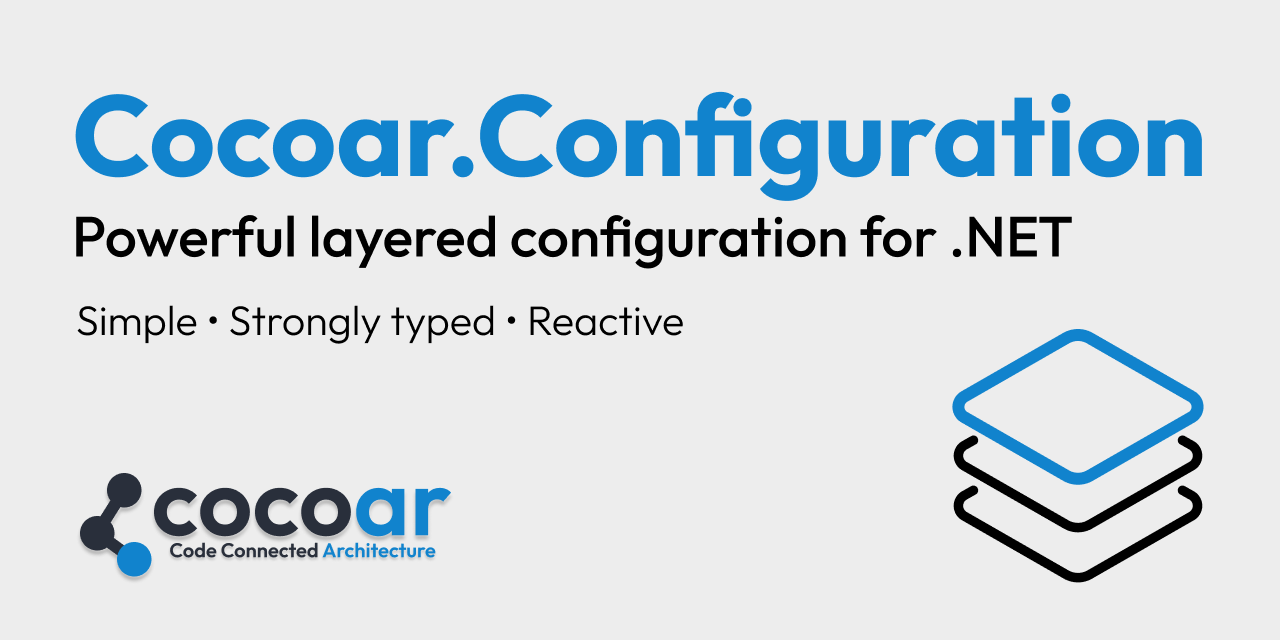
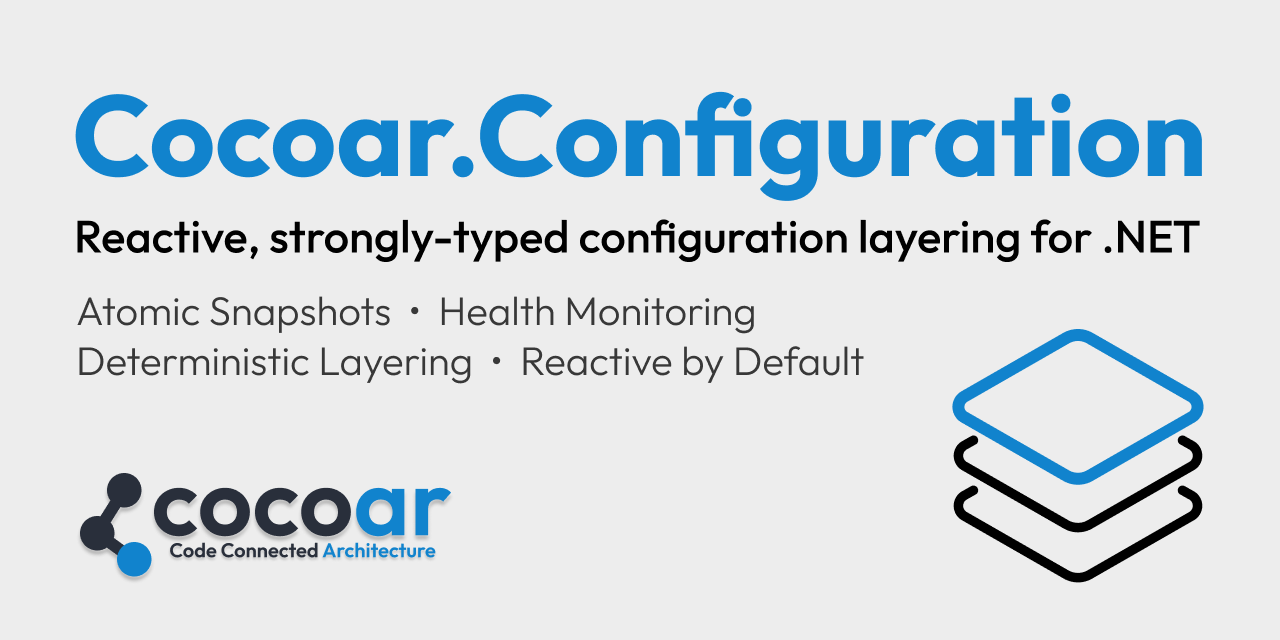
docs: Update README to enhance clarity and remove redundant text

Changed region(s): [[0.0625, 0.4688, 0.6875, 0.5938], [0.0625, 0.3125, 0.9375, 0.4375]]

diff --git a/README.md b/README.md
@@ -1,10 +1,8 @@
-# Cocoar.Configuration
+# Reactive, strongly-typed configuration layering for .NET  
 
-> Powerful layered configuration for .NET  
-> **Simple • Strongly typed • Reactive**  
-> Elevates configuration from hidden infrastructure to an observable, safety‑enforced subsystem you can trust under change and failure.
 
 ![Cocoar.Configuration](social-preview-small.png)
+> Elevates configuration from hidden infrastructure to an observable, safety‑enforced subsystem you can trust under change and failure.
 
 [![Build (develop)](https://github.com/cocoar-dev/cocoar.configuration/actions/workflows/push-develop.yml/badge.svg)](https://github.com/cocoar-dev/cocoar.configuration/actions/workflows/push-develop.yml)
 [![PR Validation](https://github.com/cocoar-dev/cocoar.configuration/actions/workflows/pr-develop.yml/badge.svg)](https://github.com/cocoar-dev/cocoar.configuration/actions/workflows/pr-develop.yml)